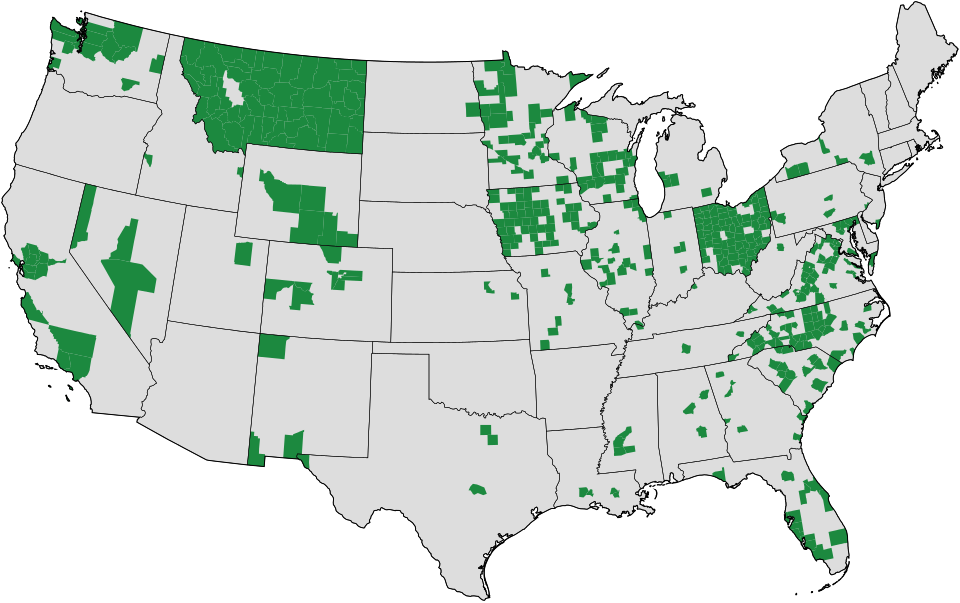
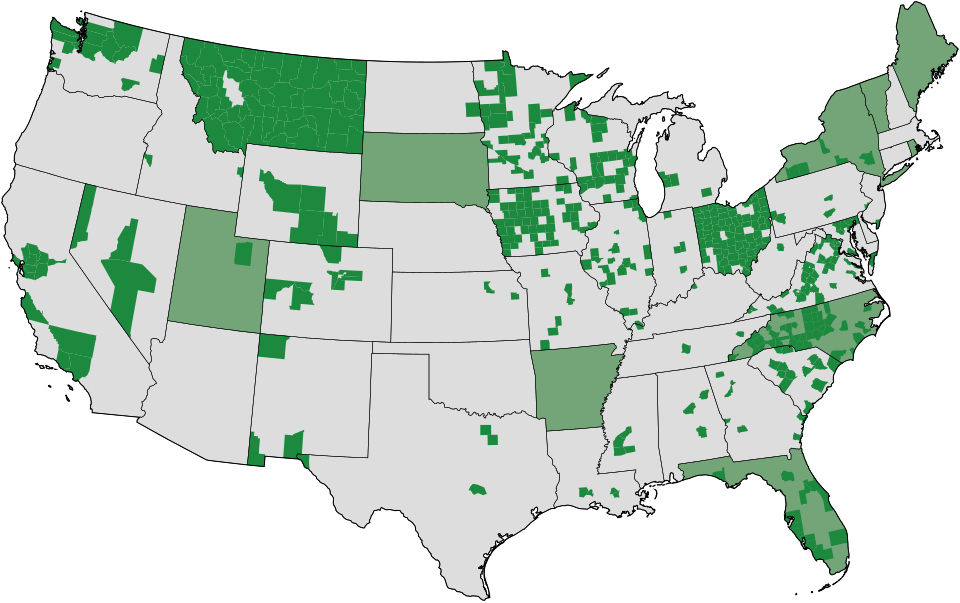
Populated state GEOIDs and added state address coverage rendering

diff --git a/render-us.py b/render-us.py
@@ -125,11 +125,16 @@ if __name__ == '__main__':
     nation_features = list(nation_ds.GetLayer(0))
     state_features = list(state_ds.GetLayer(0))
     county_features = list(county_ds.GetLayer(0))
+    data_states = [f for f in state_features if f.GetFieldAsString('GEOID') in geoids]
     data_counties = [f for f in county_features if f.GetFieldAsString('GEOID') in geoids]
 
     # Fill nation background
     context.set_source_rgb(0xdd/0xff, 0xdd/0xff, 0xdd/0xff)
     fill_features(context, nation_features)
+
+    # Fill populated states
+    context.set_source_rgb(0x74/0xff, 0xA5/0xff, 0x78/0xff)
+    fill_features(context, data_states)
 
     # Fill populated counties
     context.set_source_rgb(0x1C/0xff, 0x89/0xff, 0x3F/0xff)
